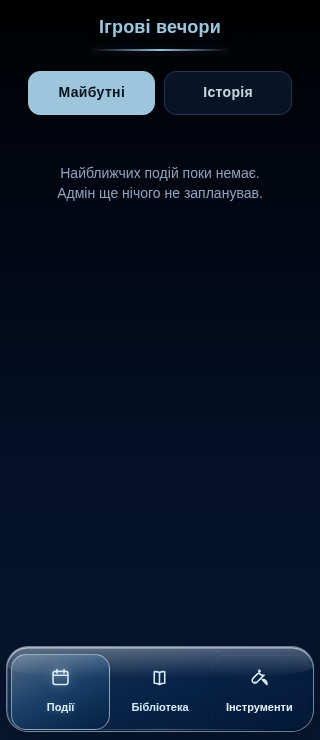
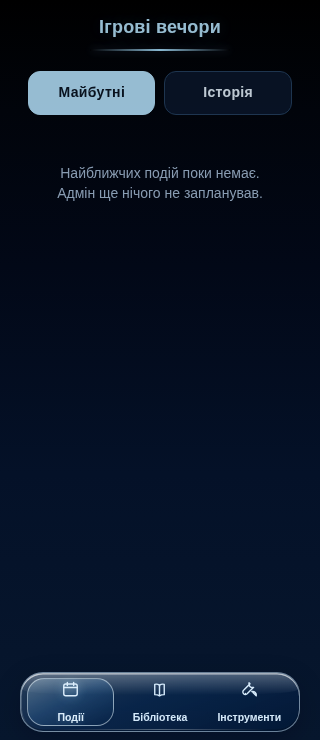
Add files via upload

Changed region(s): [[0.0, 0.8703, 1.0, 0.9946], [0.3125, 0.9635, 0.3438, 0.9946]]

diff --git a/index.html b/index.html
@@ -13638,5 +13638,68 @@ button, [role="button"], a, input, textarea, select { -webkit-tap-highlight-colo
 /* Tools now belong to the main navigation: avoid redundant return button. */
 #view-tools .tools-return { display: none !important; }
 </style>
+
+<style id="styloteka-compact-nav-v5326">
+/* v5.3.26 - compact, centered floating nav for three tabs only.
+   Retain minimum 44px tap target and Telegram/iPhone safe-area clearance. */
+:root {
+  --ui-nav-h: 60px;
+  --glass-nav-height: 60px;
+}
+.bottom-nav {
+  left: 50% !important;
+  right: auto !important;
+  bottom: var(--glass-bottom-gap, max(8px, env(safe-area-inset-bottom, 0px))) !important;
+  transform: translateX(-50%) !important;
+  width: min(318px, calc(100vw - 40px)) !important;
+  max-width: calc(100vw - 40px) !important;
+  height: 60px !important;
+  min-height: 60px !important;
+  padding: 4px 6px !important;
+  border-radius: 23px !important;
+  grid-template-columns: repeat(3, minmax(0, 1fr)) !important;
+  gap: 2px !important;
+  box-sizing: border-box !important;
+}
+.bottom-nav button {
+  flex: 1 1 0 !important;
+  min-width: 0 !important;
+  width: auto !important;
+  height: 48px !important;
+  min-height: 48px !important;
+  padding: 3px 1px !important;
+  gap: 2px !important;
+  border-radius: 17px !important;
+  justify-content: center;
+  box-sizing: border-box !important;
+}
+.bottom-nav button .icon {
+  width: 22px !important;
+  height: 21px !important;
+  display: flex;
+  align-items: center;
+  justify-content: center;
+}
+.bottom-nav button .icon svg {
+  width: 19px !important;
+  height: 19px !important;
+}
+.bottom-nav button span:last-child {
+  font-size: 11px !important;
+  line-height: 15px !important;
+  font-weight: 650 !important;
+  letter-spacing: 0 !important;
+  white-space: nowrap !important;
+  overflow: hidden !important;
+  text-overflow: clip !important;
+  max-width: 100%;
+}
+/* Keep admin '+' and page content above the smaller floating bar. */
+body { padding-bottom: calc(var(--ui-nav-h) + var(--glass-bottom-gap, 8px) + 16px) !important; }
+#eventsFab { bottom: calc(var(--ui-nav-h) + var(--glass-bottom-gap, 8px) + 14px) !important; }
+@media (max-width: 359px) {
+  .bottom-nav button span:last-child { font-size: 10.5px !important; }
+}
+</style>
 </body>
 </html>

diff --git a/test_compact_nav.py b/test_compact_nav.py
@@ -1,0 +1,58 @@
+"""Local smoke test: three-tab compact bottom nav. No external network or production data."""
+from pathlib import Path
+import re
+from playwright.sync_api import sync_playwright
+
+root=Path(__file__).parent
+html=(root/'index.html').read_text(encoding='utf-8')
+assert html.count('id="styloteka-compact-nav-v5326"')==1
+assert 'styloteka-three-tabs-v5325' in html
+assert 'id="eventModal"' in html
+assert 'id="eventDatePickerModal"' in html
+assert 'attendance_reward_stils' in html
+assert 'eventRepeatHint' in html
+nav=html.split('<!-- ==================== НИЖНЄ МЕНЮ ==================== -->',1)[1].split('<!-- Бібліотека +:',1)[0]
+assert re.findall(r'data-view="(view-[a-z-]+)"',nav)==['view-events','view-library','view-tools']
+
+with sync_playwright() as pw:
+    browser=pw.chromium.launch(headless=True,executable_path='/usr/bin/chromium',args=['--no-sandbox'])
+    for width in (320,360,375,393,430,768,1024):
+        page=browser.new_page(viewport={'width':width,'height':760},device_scale_factor=1)
+        page.route('https://telegram.org/**',lambda r:r.abort())
+        page.route('https://fonts.googleapis.com/**',lambda r:r.abort())
+        page.route('https://fonts.gstatic.com/**',lambda r:r.abort())
+        page.route('**/api/**',lambda r:r.fulfill(status=200,content_type='application/json',body='[]'))
+        errors=[]
+        page.on('pageerror',lambda exc:errors.append(str(exc)))
+        page.set_content(html,wait_until='domcontentloaded')
+        page.wait_for_timeout(300)
+        stats=page.locator('.bottom-nav').evaluate('''el => {
+          const r=el.getBoundingClientRect();
+          const css=getComputedStyle(el);
+          return {left:r.left,right:r.right,width:r.width,height:r.height,
+           view:innerWidth, padding:css.padding,display:css.display,
+           children:[...el.querySelectorAll('button')].map(b=>{
+              let br=b.getBoundingClientRect(),label=b.querySelector('span:last-child');
+              return {title:label.textContent.trim(),w:br.width,h:br.height,
+               t:label.scrollWidth,c:label.clientWidth,visible:br.left>=0&&br.right<=innerWidth};
+           })};
+        }''')
+        assert stats['width']<=318.1,(width,stats)
+        assert stats['width']<=width-39,(width,stats)
+        assert abs(stats['left']-(width-stats['right']))<1.5,(width,stats)
+        assert 59.5<=stats['height']<=60.5,(width,stats)
+        assert len(stats['children'])==3,(width,stats)
+        assert all(x['h']>=44 for x in stats['children']),(width,stats)
+        assert all(x['visible'] and x['t']<=x['c']+1 for x in stats['children']),(width,stats)
+        for target in ('view-library','view-tools','view-events'):
+            page.locator(f'.nav-btn[data-view="{target}"]').click()
+            assert page.locator(f'#{target}.active').count()==1,(width,target)
+            assert page.locator(f'.nav-btn[data-view="{target}"]').get_attribute('aria-current')=='page'
+        assert page.locator('#eventsFab').evaluate('(x)=>getComputedStyle(x).display')=='none',(width,'guest fab')
+        assert not any('is not defined' in e or 'Cannot read properties' in e for e in errors),errors[:5]
+        if width in (320,393,430):
+            page.screenshot(path=str(root/f'preview_{width}.png'))
+        print('PASS',width,'nav',round(stats['width']), 'x',round(stats['height']), 'button heights', [round(x['h']) for x in stats['children']])
+        page.close()
+    browser.close()
+print('PASS ALL: compact nav, 3-tab routing, touch targets and no overflow')
